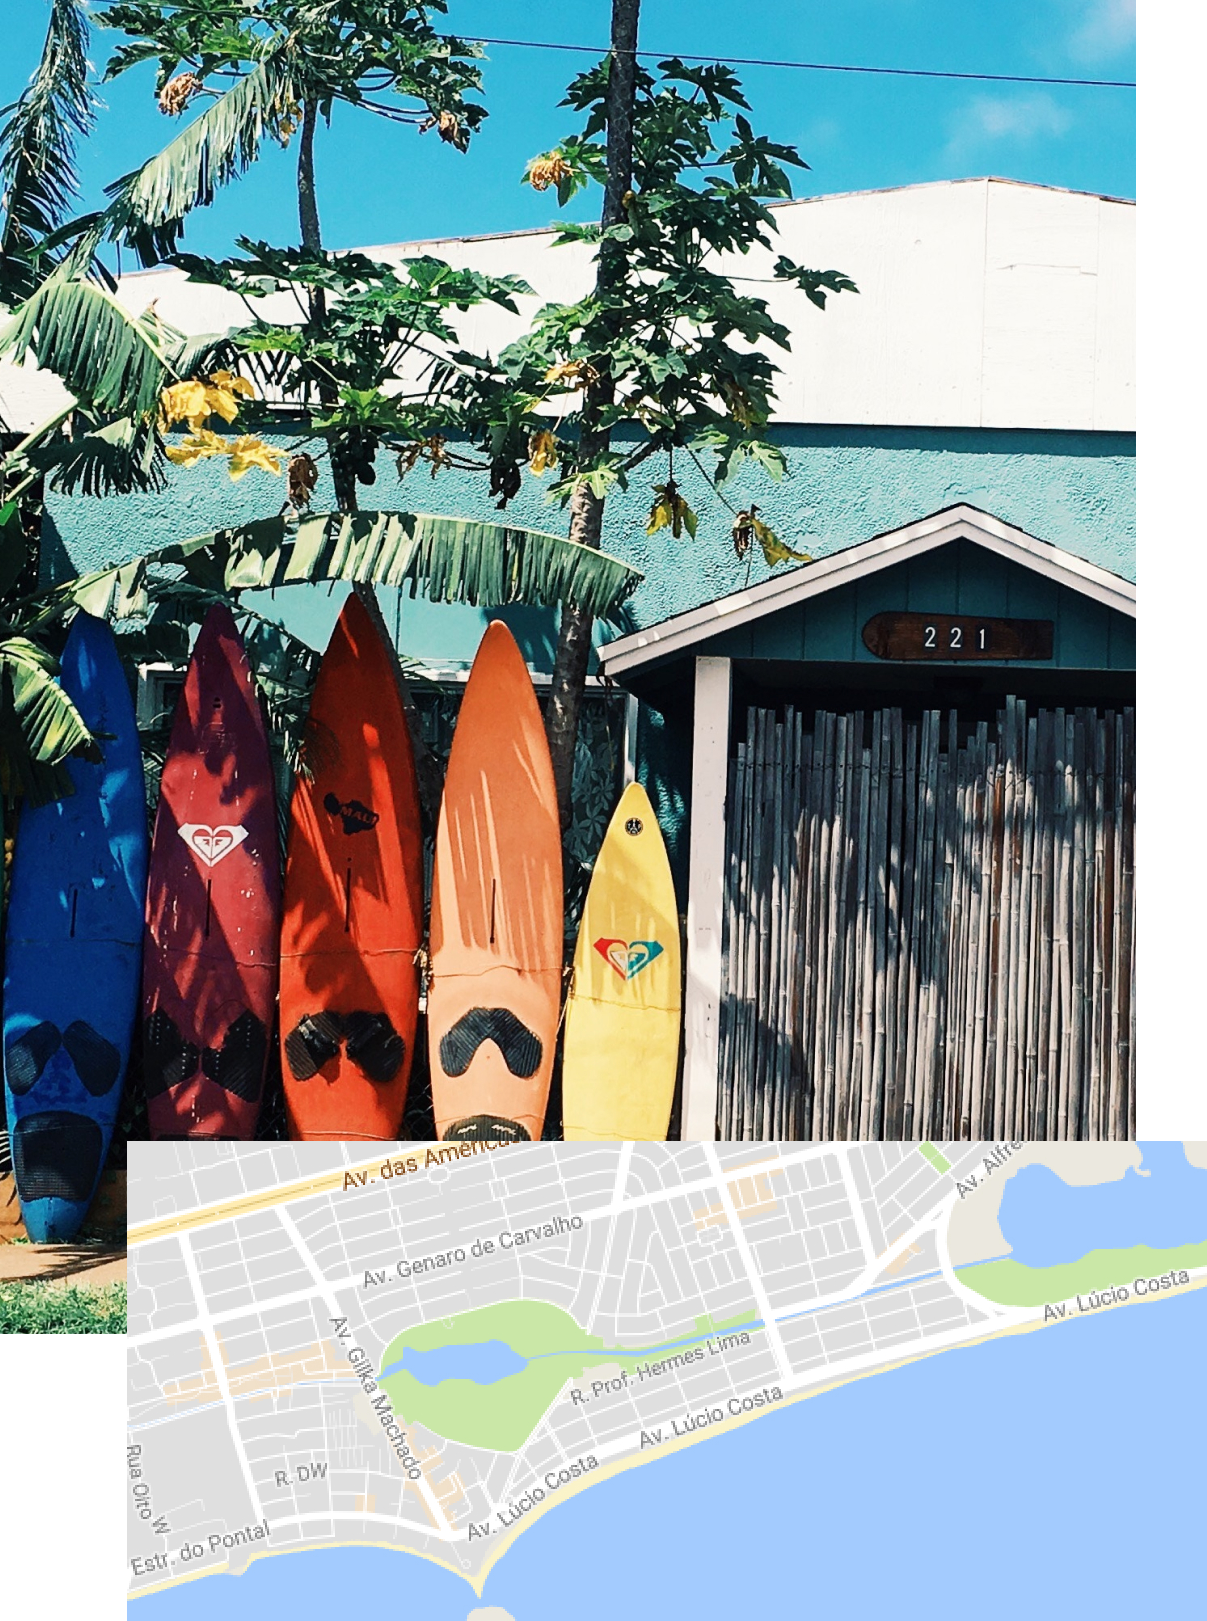
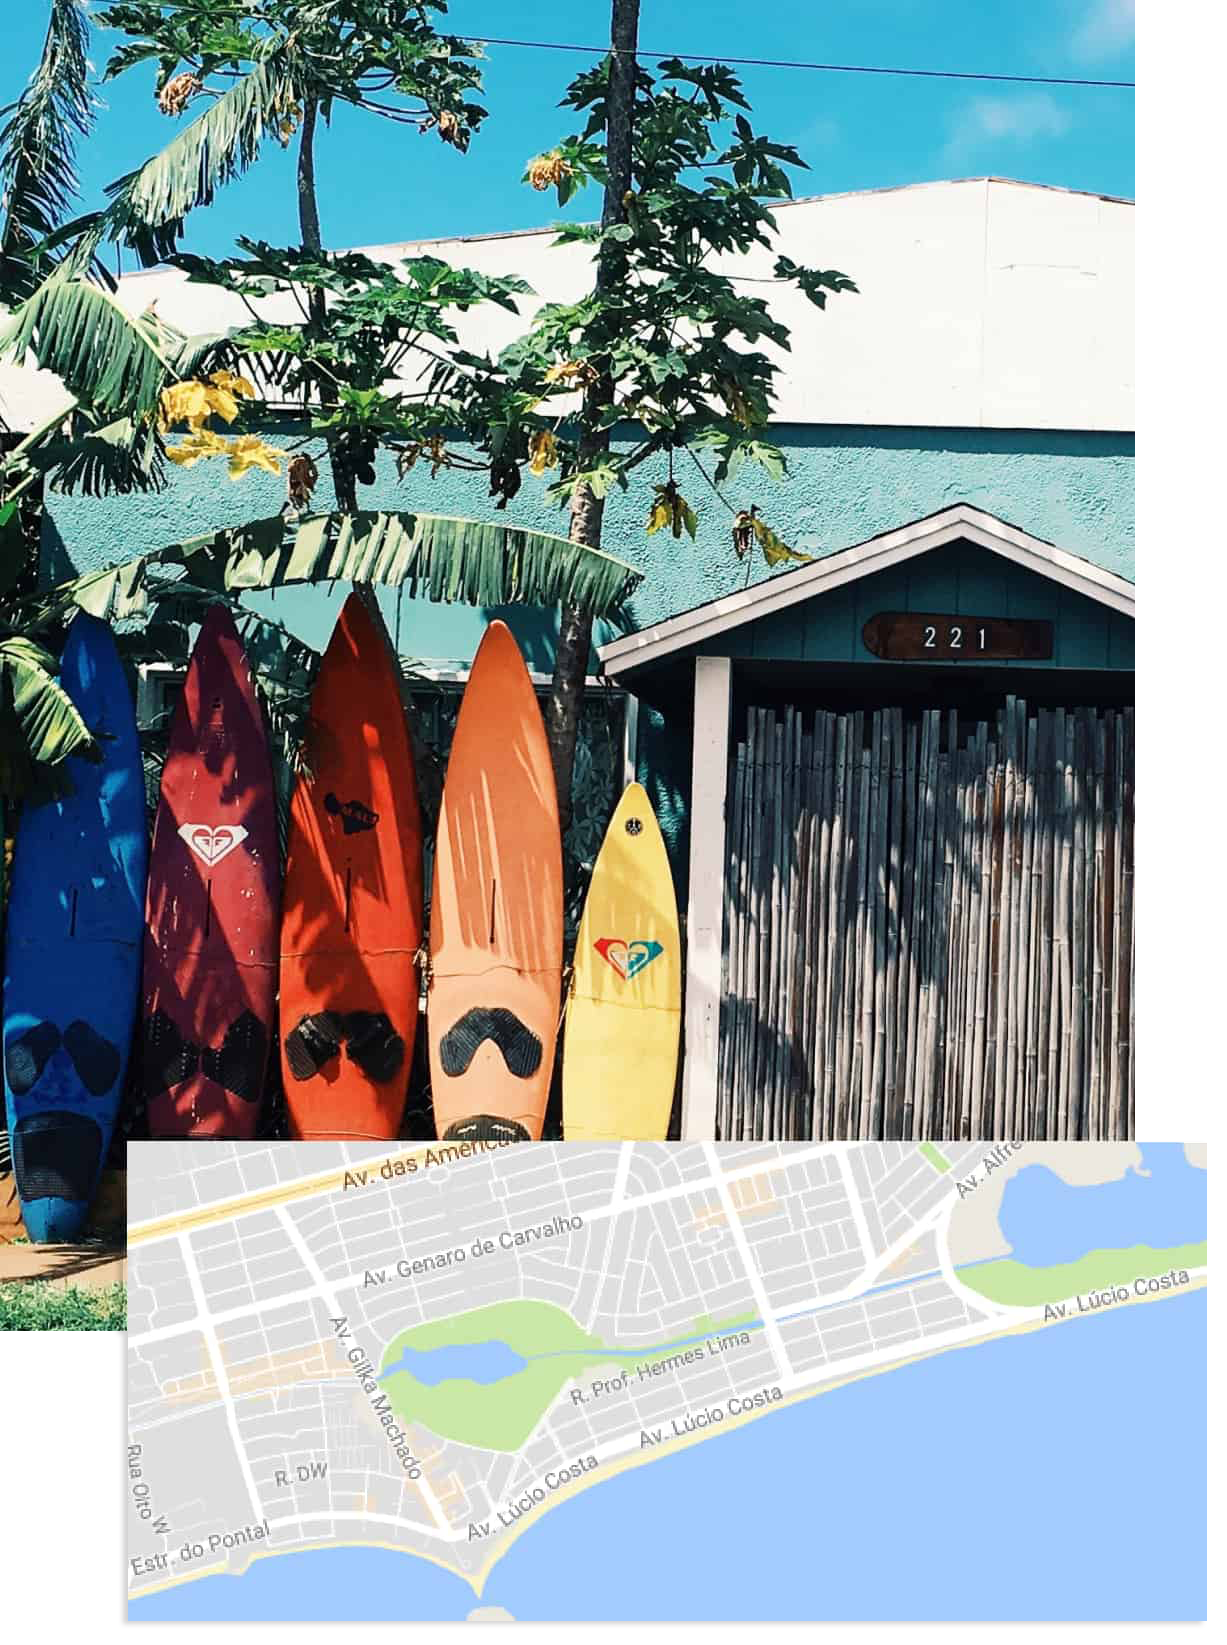
teste com imagens com qualidade menor

diff --git a/frase.css b/frase.css
@@ -1,5 +1,5 @@
 .BGfrase {
-  background: url("./surfbot-assets/foto-quote@2x.jpg");
+  background: url("./surfbot-assets/foto-quote.jpg");
   background-size: cover;
   background-repeat: no-repeat;
   background-position: center center;

diff --git a/intro.css b/intro.css
@@ -1,5 +1,5 @@
 .BGintro {
-  background: url("./surfbot-assets/bg-intro@2x.jpg");
+  background: url("./surfbot-assets/bg-intro.jpg");
   background-size: cover;
   background-repeat: no-repeat;
   background-position: center center;
